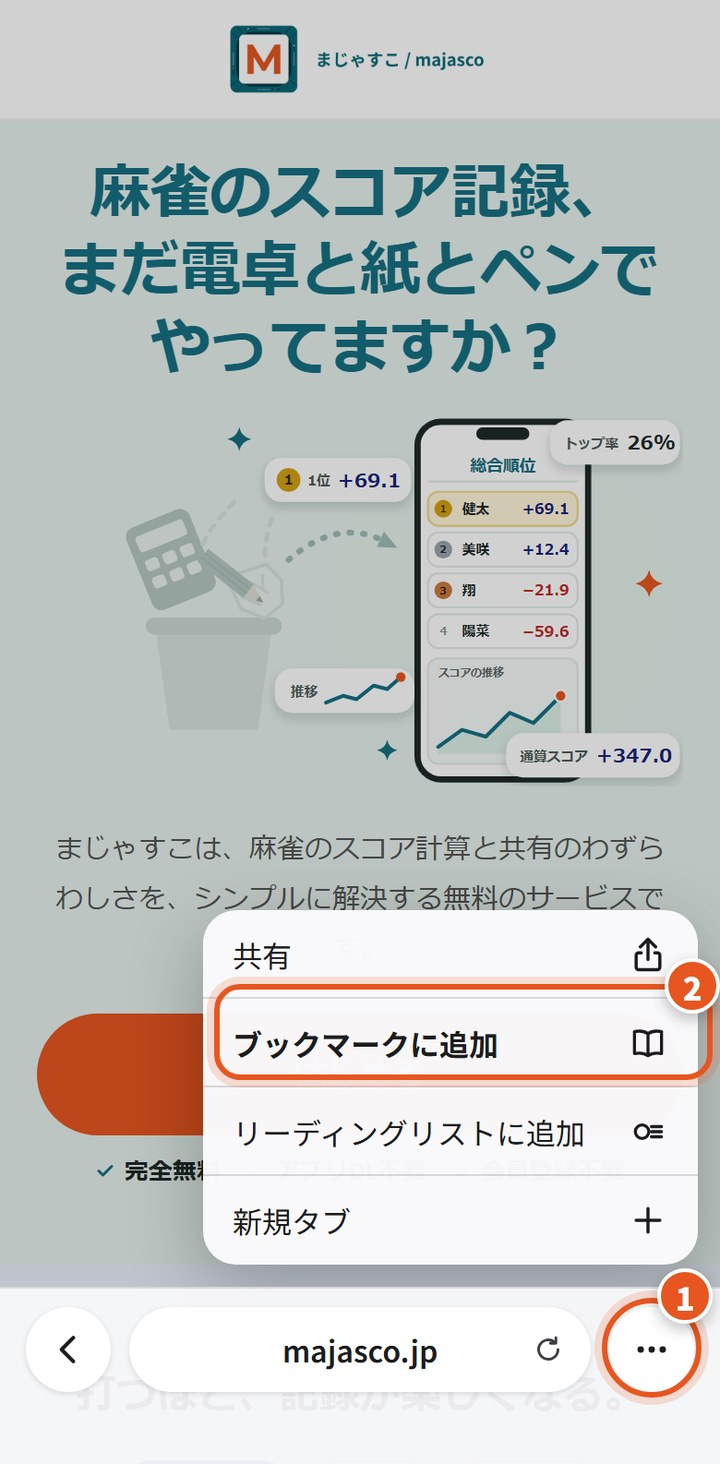
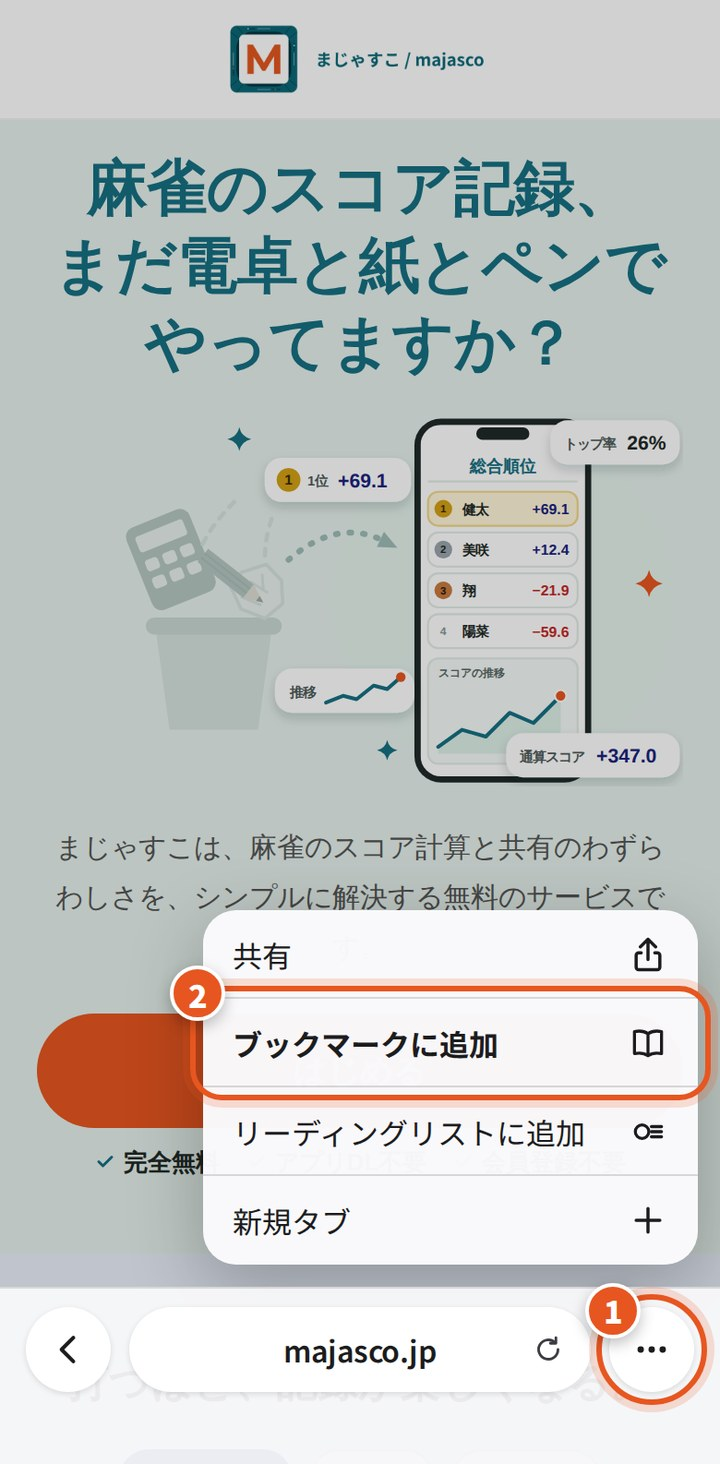
LP: Safariの案内の番号の枠を、押すところを上下左右同じ余白で囲む形に。「打つほど、記録が楽しくなる。」をスマホの1画面に収める
- 番外編の画像: 枠の座標を手で書くのをやめ、ボタンの実際の位置から同じ余白で枠を作る（②④⑤がずれていた）。丸いボタンは丸い枠、番号は枠の角
- 打つほど、記録が楽しくなる。: スマホではタブを1行（横にずらす・選んだタブは真ん中へ）、スマホの絵を画面の高さに合わせて小さく。タブ・絵・説明が1画面に入る（390×664・375×553で確認）
- 幅320pxで番外編の説明が横にはみ出していたのも直す
- fit_test・smoke_test ALL PASS

Claude-Session: https://claude.ai/code/session_01MvDkqgDpvtHo5DujLxJeb1

diff --git a/index.html b/index.html
@@ -218,13 +218,20 @@ body { font-family: -apple-system, BlinkMacSystemFont, 'Segoe UI', sans-serif; b
 /* 実際の画面：スマホ1台の中で画面を切り替える（2026-10-26〜・並べると縮尺の違いが目立つため。画像はすべて同じ縮尺＝幅720px） */
 .lp-demo { display: flex; flex-direction: column; align-items: center; gap: 16px; margin-top: 18px; }
 .lp-demo-tabs { display: flex; flex-wrap: wrap; justify-content: center; gap: 8px; }
+/* スマホ: タブは1行（横にずらして見る）。2行になるとスマホの絵の下の説明が画面に入りきらなかった（2026-10-27 ユーザーの指摘） */
+@media (max-width: 1099px) {
+  .lp-demo-tabs { position: relative; flex-wrap: nowrap; justify-content: flex-start; overflow-x: auto; align-self: stretch; width: 100%; min-width: 0; max-width: 100%; gap: 6px; padding: 2px 2px 4px; scrollbar-width: none; -webkit-overflow-scrolling: touch; }
+  .lp-demo-tabs::-webkit-scrollbar { display: none; }
+  .lp-demo-tabs > .lp-tab:first-child { margin-left: auto; } .lp-demo-tabs > .lp-tab:last-child { margin-right: auto; } /* 入りきるときは真ん中 */
+  .lp-demo-tabs > .lp-tab { flex: none; white-space: nowrap; padding: 6px 12px; }
+}
 .lp-tab { border: 1.5px solid #C9D6EE; background: #fff; color: #2F4A86; border-radius: 20px; padding: 7px 14px; font-size: 13px; font-weight: 800; cursor: pointer; font-family: inherit; }
 .lp-tab.on { background: #2F4A86; border-color: #2F4A86; color: #fff; }
 .lp-tab .lp-tab-t, .lp-tab .lp-tab-d { display: none; }
 /* スマホの枠の決まり（サイト・SNS画像・動画・サムネで共通。docs/image-tools.md「スマホの枠」）：
    高さ＝幅×2.06／枠3.5%（上下左右同じ）／外の角15%・画面の角11.5%／画面の上の帯10%の中央にノッチ（幅30%・高さ7%）。
    スクショは帯の下に幅いっぱいで置き、下ははみ出た分だけ隠れる */
-.lp-phone { --pw: min(300px, 80vw); width: var(--pw); padding: calc(var(--pw) * .035); border-radius: calc(var(--pw) * .15); background: #1F2A28; box-shadow: 0 18px 40px rgba(16,40,36,.22); }
+.lp-phone { --pw: min(300px, 80vw); --pw: clamp(170px, min(250px, 64vw, calc((100svh - 220px) / 2.06)), 300px); /* タブ・スマホ・説明が1画面に入る大きさ（絵の高さ＝幅×2.06） */ width: var(--pw); padding: calc(var(--pw) * .035); border-radius: calc(var(--pw) * .15); background: #1F2A28; box-shadow: 0 18px 40px rgba(16,40,36,.22); }
 .lp-phone-in { position: relative; border-radius: calc(var(--pw) * .115); overflow: hidden; background: #E6F1EC; height: calc(var(--pw) * 1.99); }
 .lp-phone-bar { display: flex; justify-content: center; align-items: center; height: calc(var(--pw) * .10); transition: background .3s; }
 .lp-phone-island { width: calc(var(--pw) * .30); height: calc(var(--pw) * .07); border-radius: 999px; background: #1F2A28; }
@@ -388,6 +395,7 @@ body { font-family: -apple-system, BlinkMacSystemFont, 'Segoe UI', sans-serif; b
 .bm-phone { --pw: min(200px, 25vw); }
 .bm-cap { margin-top: 10px; display: flex; flex-direction: column; align-items: center; gap: 4px; text-align: center; font-size: 12px; line-height: 1.55; font-weight: 700; color: #1F2A28; }
 .bm-cap span { word-break: keep-all; } /* 「ブック/マーク」のような語の途中で折り返さない（<wbr>の所だけで折る） */
+@media (max-width: 359px) { .bm-cap span { word-break: normal; } } /* 幅320pxでは語の途中でも折る（折らないと横にはみ出した） */
 .bm-cap b { display: grid; place-items: center; width: 22px; height: 22px; border-radius: 50%; background: #177083; color: #fff; font-size: 12px; font-weight: 900; }
 /* スマホ幅：3枚を縦に並べ、左にスマホ・右に説明（横に3台だと字が小さく、説明が単語の途中で折り返す） */
 @media (max-width: 699px) {
@@ -7720,6 +7728,9 @@ function lpDemo(i, user) {
   scrs.forEach((el, j) => el.classList.toggle('on', j === lpDemoIdx));
   const cur = scrs[lpDemoIdx];
   root.querySelector('.lp-phone-bar').style.background = cur.dataset.top;
+  // スマホでタブが横にはみ出しているときは、選んだタブを帯の真ん中へ（ページは動かさない）
+  const bar = root.querySelector('.lp-demo-tabs'), t = tabs[lpDemoIdx];
+  if (bar && t && bar.scrollWidth > bar.clientWidth + 1) bar.scrollTo({ left: t.offsetLeft - (bar.clientWidth - t.offsetWidth) / 2, behavior: user ? 'smooth' : 'auto' });
   document.getElementById('lp-demo-t').textContent = cur.dataset.title;
   document.getElementById('lp-demo-d').textContent = cur.dataset.desc;
   document.getElementById('lp-demo-a').href = cur.dataset.href;

diff --git a/tools/make_bookmark_steps.py b/tools/make_bookmark_steps.py
@@ -14,7 +14,9 @@ OUT = os.path.join(MJ, "assets", "screens")
 TMP = os.path.join(MJ, "まじゃすこ素材", "ig", "shots")
 PORT = 8823
 H = 793  # 枠の画面（帯の下）の縦横比 1.89/0.93 × 390
-FONT = "file:///C:/Windows/Fonts/NotoSansJP-VF.ttf"
+_WINFONT = "C:/Windows/Fonts/NotoSansJP-VF.ttf"
+FONT = "file:///" + _WINFONT if os.path.exists(_WINFONT) else ""  # Windows 以外は Google Fonts の Noto Sans JP（GFONT）
+GFONT = '<link href="https://fonts.googleapis.com/css2?family=Noto+Sans+JP:wght@400;500;600;700;800;900&display=block" rel="stylesheet">'
 FAV = "file:///" + os.path.join(MJ, "assets", "favicon.png").replace("\\", "/")
 ORANGE = "#E75620"
 
@@ -38,10 +40,10 @@ IC = {
 CSS_T = """
 @font-face {{ font-family: NJP; src: url('{FONT}'); font-weight: 100 900; }}
 * {{ box-sizing: border-box; margin: 0; padding: 0; }}
-body {{ width: 390px; height: {H}px; overflow: hidden; font-family: NJP, -apple-system, sans-serif; color: #1C1C1E; position: relative; background: #F2F2F7; }}
+body {{ width: 390px; height: {H}px; overflow: hidden; font-family: NJP, 'Noto Sans JP', -apple-system, sans-serif; color: #1C1C1E; position: relative; background: #F2F2F7; }}
 .badge {{ position: absolute; z-index: 9; width: 30px; height: 30px; border-radius: 50%; background: {ORANGE}; color: #fff; font-weight: 900; font-size: 17px;
   display: grid; place-items: center; border: 2.5px solid #fff; box-shadow: 0 3px 8px rgba(0,0,0,.25); }}
-.ring {{ position: absolute; z-index: 8; border: 3.5px solid {ORANGE}; border-radius: 16px; box-shadow: 0 0 0 4px rgba(231,86,32,.18); }}
+.ring {{ position: absolute; z-index: 8; box-sizing: border-box; border: 3.5px solid {ORANGE}; border-radius: 16px; box-shadow: 0 0 0 4px rgba(231,86,32,.18); }}
 /* Safari の下のバー */
 .sbar {{ position: absolute; left: 0; right: 0; bottom: 0; height: 96px; padding: 10px 14px 0; display: flex; gap: 10px; align-items: flex-start;
   background: rgba(249,249,251,.94); border-top: 0.5px solid rgba(0,0,0,.12); }}
@@ -72,42 +74,57 @@ body {{ width: 390px; height: {H}px; overflow: hidden; font-family: NJP, -apple-
 """
 CSS = CSS_T.format(FONT=FONT, ORANGE=ORANGE, H=H)
 
-def badge(n, x, y):
-    return f'<div class="badge" style="left:{x}px;top:{y}px">{n}</div>'
+# 枠と番号: 押すところに data-ring="番号" を付けておき、描いたあとに部品の実際の位置から作る（2026-10-27 手で書いた座標がずれていた）。
+# 枠は部品の上下左右に同じ余白（PAD）。角の丸みは部品の丸み＋余白（丸いボタンは丸い枠）。
+# 番号は枠の右上の角。画面の右端からはみ出すときは左上、上端からはみ出すときは下の角へ
+PAD = 7
+RING_JS = """(pad) => {
+  const W = innerWidth, H = innerHeight;
+  document.querySelectorAll('[data-ring]').forEach(el => {
+    const r = el.getBoundingClientRect();
+    const x = r.left - pad, y = r.top - pad, w = r.width + pad * 2, h = r.height + pad * 2;
+    const cs = getComputedStyle(el), br = cs.borderTopLeftRadius;
+    const round = br.endsWith('%') ? parseFloat(br) >= 50 : parseFloat(br) >= Math.min(r.width, r.height) / 2 - 0.5;
+    const rad = round ? Math.min(w, h) / 2 : (parseFloat(br) || 10) + pad;
+    const ring = document.createElement('div');
+    ring.className = 'ring';
+    Object.assign(ring.style, { left: x + 'px', top: y + 'px', width: w + 'px', height: h + 'px', borderRadius: rad + 'px' });
+    document.body.appendChild(ring);
+    const b = document.createElement('div');
+    b.className = 'badge'; b.textContent = el.dataset.ring;
+    const s = 30, cut = round ? (1 - Math.SQRT1_2) * rad : Math.min(rad, 14) * 0.3;
+    let bx = x + w - cut - s / 2, by = y + cut - s / 2;
+    if (bx + s > W - 2) bx = x + cut - s / 2;
+    if (by < 2) by = y + h - cut - s / 2;
+    Object.assign(b.style, { left: Math.max(2, Math.min(W - s - 2, bx)) + 'px', top: Math.max(2, Math.min(H - s - 2, by)) + 'px' });
+    document.body.appendChild(b);
+  });
+}"""
 
-def ring(x, y, w, h, r=16):
-    return f'<div class="ring" style="left:{x}px;top:{y}px;width:{w}px;height:{h}px;border-radius:{r}px"></div>'
-
-def bar(more_ring=False):
+def bar(more_ring=None):
     return ('<div class="sbar"><div class="sbtn">' + IC["back"] + '</div>'
             '<div class="addr">majasco.jp<span class="rl">' + IC["reload"] + '</span></div>'
-            '<div class="sbtn">' + IC["more"] + '</div></div>')
+            '<div class="sbtn"' + (f' data-ring="{more_ring}"' if more_ring else '') + '>' + IC["more"] + '</div></div>')
 
 def step1(lp_png):
     menu = ('<div class="menu">'
             f'<div class="it">共有<span>{IC["share"]}</span></div>'
-            f'<div class="it" style="font-weight:700">ブックマークに追加<span>{IC["book"]}</span></div>'
+            f'<div class="it" data-ring="2" style="font-weight:700">ブックマークに追加<span>{IC["book"]}</span></div>'
             f'<div class="it">リーディングリストに追加<span>{IC["list"]}</span></div>'
             f'<div class="it">新規タブ<span>{IC["plus"]}</span></div></div>')
     return (f'<img src="{lp_png}" style="position:absolute;left:0;top:0;width:390px">'
-            '<div class="dim"></div>' + menu + bar()
-            # ① 「…」 ② 「ブックマークに追加」
-            + ring(326, H - 90, 54, 54, 27) + badge(1, 356, H - 106)
-            + ring(116, H - 260, 270, 52, 14) + badge(2, 360, H - 274))
+            '<div class="dim"></div>' + menu + bar(more_ring=1))  # ① 「…」 ② 「ブックマークに追加」
 
 def step2():
     return ('<div style="position:absolute;inset:0;background:#F2F2F7">'
-            f'<div class="nav"><div class="circ">{IC["close"]}</div><h1>ブックマークを追加</h1><div class="save">{IC["check"]}</div></div>'
+            f'<div class="nav"><div class="circ">{IC["close"]}</div><h1>ブックマークを追加</h1><div class="save" data-ring="4">{IC["check"]}</div></div>'
             f'<div class="grp"><div class="row" style="padding:14px 16px;align-items:flex-start"><img class="fav" src="{FAV}">'
             '<div style="flex:1"><div style="font-size:16px;padding:6px 0 10px;border-bottom:0.5px solid rgba(60,60,67,.18)">まじゃすこ</div>'
             '<div style="font-size:15px;color:#6C6C70;padding-top:10px">https://majasco.jp/</div></div></div></div>'
             '<div class="lab">場所</div>'
-            f'<div class="grp"><div class="row" style="font-weight:700"><span style="color:#0A84FF;display:grid">{IC["star"]}</span><span style="flex:1">お気に入り</span><span style="color:#0A84FF;display:grid">{IC["check"]}</span></div>'
+            f'<div class="grp"><div class="row" data-ring="3" style="font-weight:700"><span style="color:#0A84FF;display:grid">{IC["star"]}</span><span style="flex:1">お気に入り</span><span style="color:#0A84FF;display:grid">{IC["check"]}</span></div>'
             f'<div class="row"><span style="color:#0A84FF;display:grid">{IC["folder"]}</span><span style="flex:1">ブックマーク</span></div></div>'
-            '</div>'
-            # ③ お気に入り ④ 保存
-            + ring(12, 210, 366, 56, 14) + badge(3, 352, 196)
-            + ring(334, 8, 48, 48, 24) + badge(4, 360, -2))
+            '</div>')  # ③ お気に入り ④ 保存
 
 def step3():
     tiles = [("FAV", "まじゃすこ"), ("#5E8BD6", "天気", "天"), ("#7A8A99", "ニュース", "N"), ("#4FA06B", "地図", "地"),
@@ -115,7 +132,7 @@ def step3():
     g = ""
     for t in tiles:
         if t[0] == "FAV":
-            g += f'<div class="tile"><img src="{FAV}">{t[1]}</div>'
+            g += f'<div class="tile" data-ring="5"><img src="{FAV}">{t[1]}</div>'
         elif t[1]:
             g += f'<div class="tile"><div class="ic" style="background:{t[0]}">{t[2]}</div>{t[1]}</div>'
         else:
@@ -128,9 +145,7 @@ def step3():
             + "".join('<div style="height:64px;border-radius:14px;background:#fff;box-shadow:0 1px 3px rgba(0,0,0,.08)"></div>' for _ in range(4)) + '</div>'
             '</div>'
             + '<div class="sbar"><div class="sbtn">' + IC["back"] + '</div><div class="addr" style="color:#8E8E93;font-weight:500"><span style="display:grid">'
-            + IC["search"] + '</span>検索／サイト名を入力</div><div class="sbtn">' + IC["more"] + '</div></div>'
-            # ⑤ まじゃすこ
-            + ring(29, 78, 80, 98, 18) + badge(5, 92, 66))
+            + IC["search"] + '</span>検索／サイト名を入力</div><div class="sbtn">' + IC["more"] + '</div></div>')  # ⑤ まじゃすこ
 
 class Q(http.server.SimpleHTTPRequestHandler):
     def log_message(self, *a):
@@ -144,7 +159,7 @@ def main():
         b = p.chromium.launch()
         # 1枚目の背景：本物のLPの最初の画面（外の通信は止める）
         ctx = b.new_context(viewport={"width": 390, "height": H}, device_scale_factor=2, locale="ja-JP")
-        ctx.route(lambda u: not u.startswith(f"http://127.0.0.1:{PORT}"), lambda r: r.abort())
+        ctx.route(lambda u: not u.startswith(f"http://127.0.0.1:{PORT}") and "fonts.g" not in u, lambda r: r.abort())  # 文字（Google Fonts）だけは通す
         pg = ctx.new_page()
         pg.goto(f"http://127.0.0.1:{PORT}/"); pg.wait_for_timeout(1500)
         pg.add_style_tag(content="#toast, .toast { display: none !important; }")
@@ -155,8 +170,9 @@ def main():
         lp_url = "file:///" + lp.replace("\\", "/")
         for i, body in enumerate([step1(lp_url), step2(), step3()], 1):
             hp = os.path.join(TMP, f"_bm{i}.html")
-            io.open(hp, "w", encoding="utf-8").write(f"<!doctype html><html><head><meta charset='utf-8'><style>{CSS}</style></head><body>{body}</body></html>")
-            pg.goto("file:///" + hp.replace("\\", "/")); pg.wait_for_timeout(500)
+            io.open(hp, "w", encoding="utf-8").write(f"<!doctype html><html><head><meta charset='utf-8'>{'' if FONT else GFONT}<style>{CSS}</style></head><body>{body}</body></html>")
+            pg.goto("file:///" + hp.replace("\\", "/")); pg.evaluate("document.fonts.ready"); pg.wait_for_timeout(800)
+            pg.evaluate(RING_JS, PAD)
             png = os.path.join(TMP, f"bm-{i}.png")
             pg.screenshot(path=png)
             os.remove(hp)

diff --git a/docs/lp-spec.md b/docs/lp-spec.md
@@ -17,7 +17,7 @@
 4. 比較表「手書きのスコア表は、もう卒業。」（薄緑）
 5. 特徴カルーセル「スマホ1台で、ここまでできる。」（白）
 5b. **本当の記録の画面「打つほど、記録が楽しくなる。」（薄青・2026-10-26 第2版。旧「実際の画面で見る。」）**: ユーザーの仲間ページ（しぐまちゅーたーず）の**実際の数字**（人の名前とグループ名は置きかえ）で撮った**スマホ1画面（390×844）のスクショをそのまま**6枚。順番は **自分の成績（いちばん左）**・成績表（2番目）・通算順位・過去の試合（マイページの一覧＝ゲームごとの自分の順位とスコア）・総当たり・メンバーの成績。ゲーム名は撮るときだけ「土曜の麻雀」のような短い名前に。**切り抜かない**（切り抜くと周りに色の縁が残って不自然、とユーザーの指摘）。どの画面も中身で埋まる位置までスクロールしてから撮る。
-   見せ方は**スマホ1台の枠の中でタブで切り替える**（`.lp-demo`。カードを並べると縮尺の違いが目立つため）。枠の上の帯は、その画面の上端の色（`data-top`）。押されるまでは5秒ごとに次へ（画面に見えているときだけ・動きを減らす設定なら止める）。PCは左にスマホ・右に説明つきのタブ。
+   見せ方は**スマホ1台の枠の中でタブで切り替える**（`.lp-demo`。カードを並べると縮尺の違いが目立つため）。**スマホ（1099px以下）はタブを1行**（横にずらして見る・選んだタブは帯の真ん中へ）、スマホの絵の幅は `clamp(170px, min(250px, 64vw, (100svh − 220px) ÷ 2.06), 300px)`＝タブ・絵・下の説明が1画面に入る（2026-10-27 タブが2行で説明が読み切れなかった）。枠の上の帯は、その画面の上端の色（`data-top`）。押されるまでは5秒ごとに次へ（画面に見えているときだけ・動きを減らす設定なら止める）。PCは左にスマホ・右に説明つきのタブ。
    撮り方は `python tools/shoot_lp_screens.py <名前を置きかえたデータ.json>`（スタブ・本番に触れない。データはリポジトリに入れない。段取りは tools/shoot_lp_screens_plan.py の vshot＝画面1枚）
 6. クロージング「麻雀のスコア記録は、まじゃすこで。」（薄緑）→ 読みもの「もっと詳しく」→ **お知らせ（新しい3本）** → lp_bottom広告枠。読みものとお知らせは、ブログの一覧と同じく左に記事の絵（assets/thumbs/・.read-list.rl-cards）。新しい記事を載せるときは make_thumbs.py の絵も作る
 7. フッター（全ページ共通。ロゴと一言・SNSはアイコンだけ・使う／読む／このサイトについて の3つのまとまり。中身と作り方は docs/site-spec.md「共通ヘッダー/フッター」＝`tools/site_footer.py`・`assets/site-foot.css`。
@@ -78,6 +78,7 @@
   「Safariの“お気に入り”に一度登録しておけば、<br>次の対局からはワンタップで「まじゃすこ」へ。<br>ホーム画面のアプリのような使い心地になります。」
 - 薄緑 #E4F3EC の**1枚のブロック（.bm-wrap）が3画面全体の背景**。3台のスマホ＋間にシェブロン矢印（#9fbcb7・2枚重ね）
 - **画面は `tools/make_bookmark_steps.py` で作る画像**（assets/screens/bm-1〜3.jpg。2026-10-27〜。前はSVGで描いた絵）。
+- **番号の枠は座標を手で書かない**: 押すところに `data-ring="番号"` を付けると、描いたあと部品の実際の位置から上下左右同じ余白（PAD=7px）で枠を作る。丸いボタンは丸い枠、番号は枠の右上（右端・上端からはみ出すときは左・下の角）（2026-10-27 手で書いた座標で②④⑤の枠がずれていた）。Windows以外は Google Fonts の Noto Sans JP で描く
   iPhoneのSafariを 390×793（決まりどおりのスマホの枠の、帯の下の画面にちょうど入る高さ＝下が切れない）のHTMLで描いて撮る。
   1枚目の背景は本物のLP、**まじゃすこのアイコンは本物（assets/favicon.png）**。ほかのお気に入りは天気・ニュース・地図などの**一般的な文字アイコン**
   （実在のアプリ＝YouTube・X・Instagram・LINE に似せたアイコンは描かない。ユーザーの指摘「作られたものなので本物っぽくない」）
